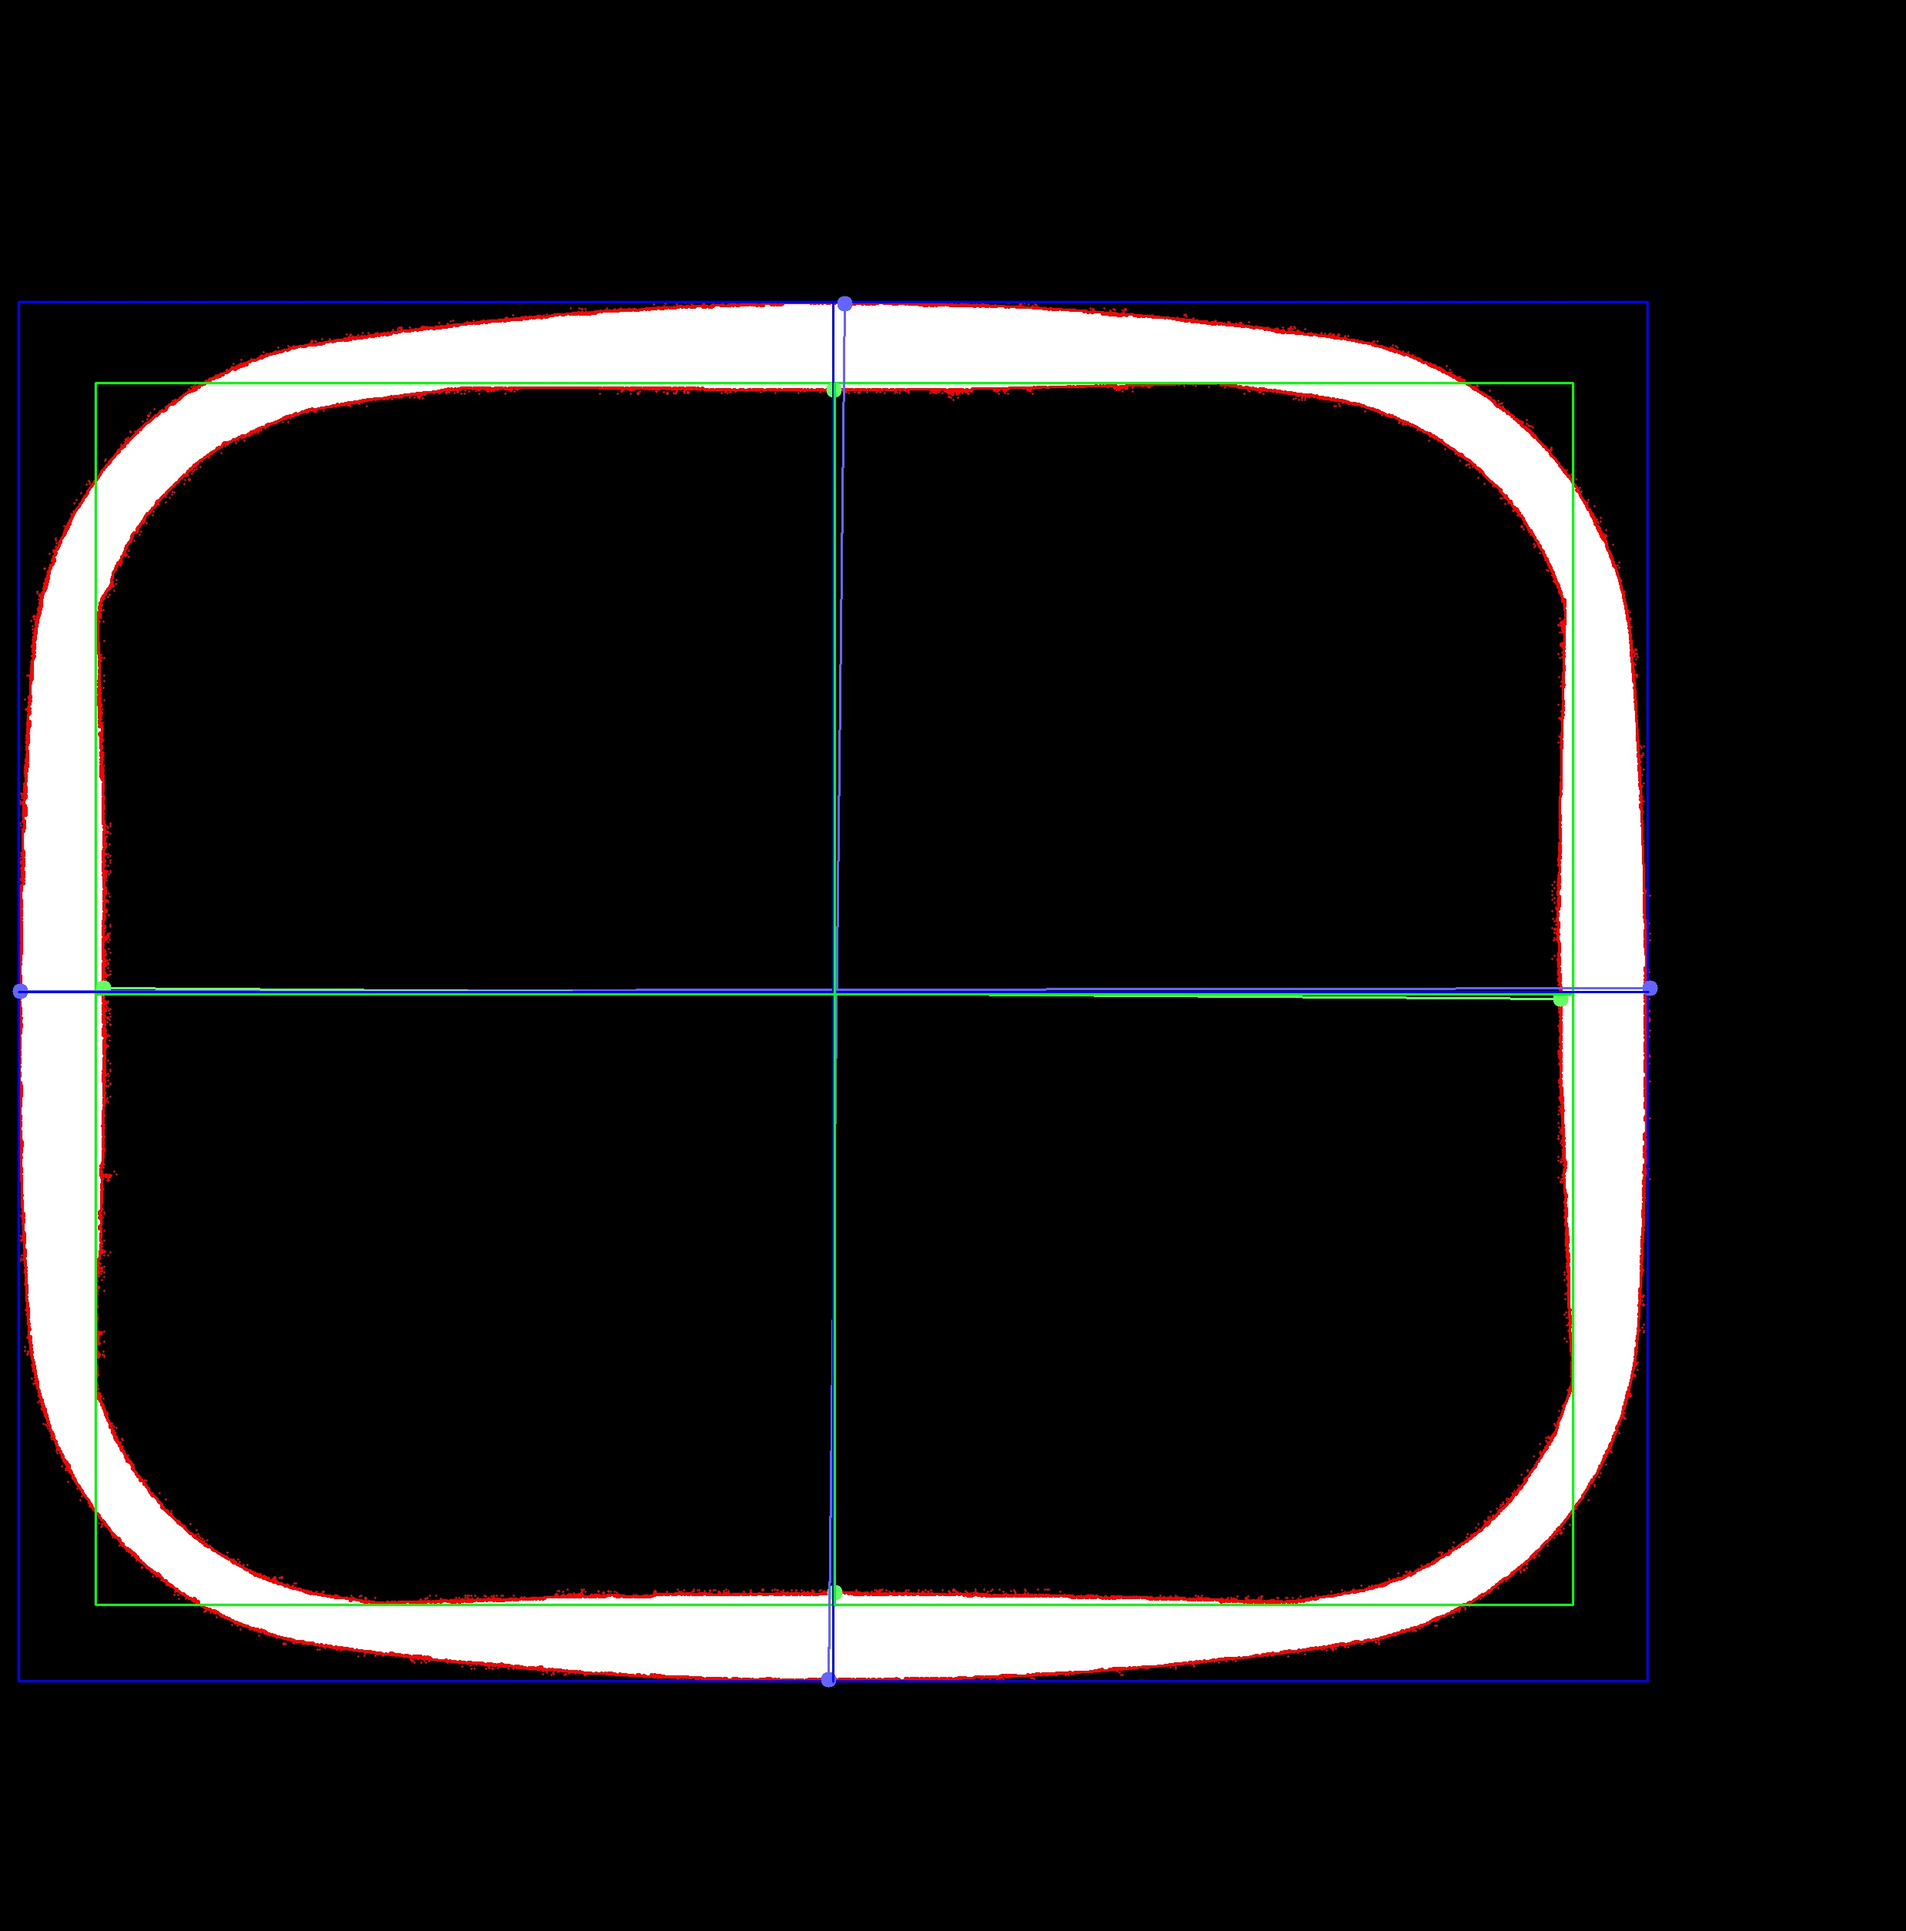
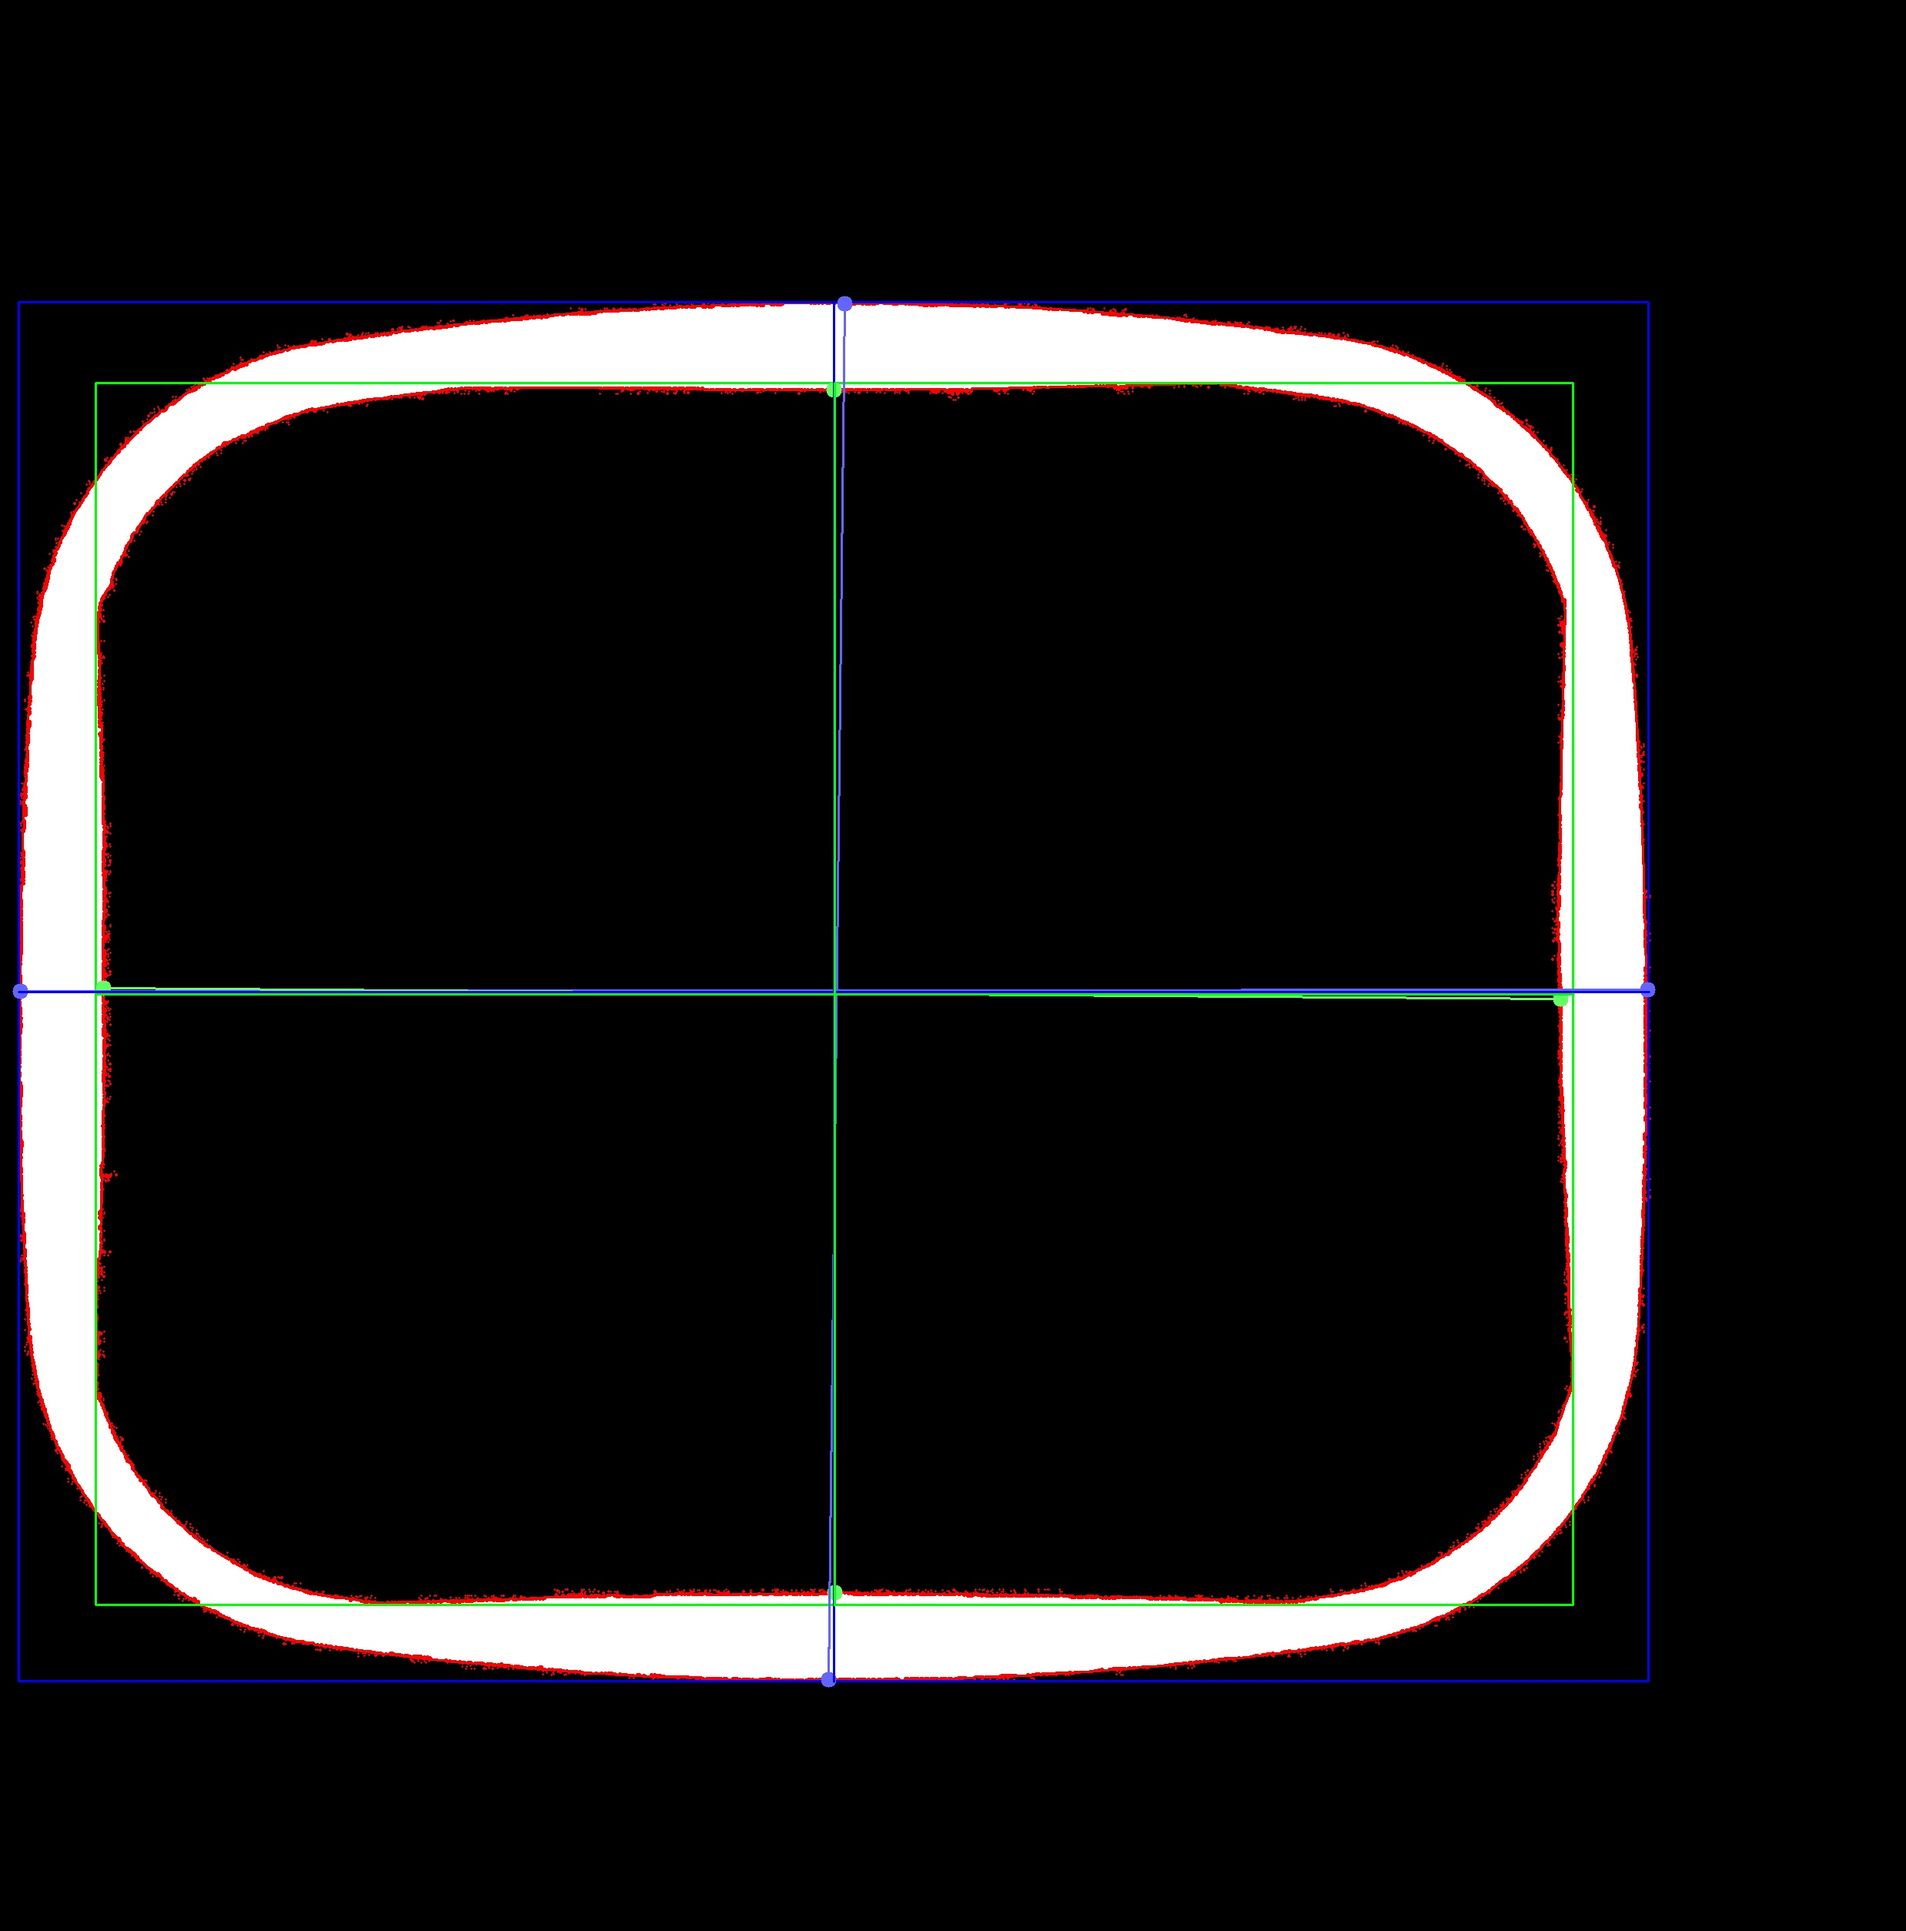
removed duplicate code in process segmented scripts and updated docs/ result images

diff --git a/src/process-segmented-4x4.py b/src/process-segmented-4x4.py
@@ -72,24 +72,16 @@ cv2.circle(image, centriod(inner_W_contour), 10, (100, 255, 100), -1)
 # Draw outer lines
 cv2.line(image, centriod(outer_E_contour), centriod(outer_W_contour), (255, 100, 100), 2)
 cv2.line(image, centriod(outer_N_contour), centriod(outer_S_contour), (255, 100, 100), 2)
-cv2.line(image, centriod(outer_E_contour), centriod(outer_W_contour), (255, 100, 100), 2)
-cv2.line(image, centriod(outer_N_contour), centriod(outer_S_contour), (255, 100, 100), 2)
 
 # Draw inner lines
-cv2.line(image, centriod(inner_E_contour), centriod(inner_W_contour), (100, 255, 100), 2)
-cv2.line(image, centriod(inner_N_contour), centriod(inner_S_contour), (100, 255, 100), 2)
 cv2.line(image, centriod(inner_E_contour), centriod(inner_W_contour), (100, 255, 100), 2)
 cv2.line(image, centriod(inner_N_contour), centriod(inner_S_contour), (100, 255, 100), 2)
 
 # Draw outer lines
 cv2.line(image, outer_bounding_box_E_point, outer_bounding_box_W_point, (255, 0, 0), 2)
 cv2.line(image, outer_bounding_box_N_point, outer_bounding_box_S_point, (255, 0, 0), 2)
-cv2.line(image, outer_bounding_box_E_point, outer_bounding_box_W_point, (255, 0, 0), 2)
-cv2.line(image, outer_bounding_box_N_point, outer_bounding_box_S_point, (255, 0, 0), 2)
 
 # Draw inner lines
-cv2.line(image, inner_bounding_box_E_point, inner_bounding_box_W_point, (0, 255, 0), 2)
-cv2.line(image, inner_bounding_box_N_point, inner_bounding_box_S_point, (0, 255, 0), 2)
 cv2.line(image, inner_bounding_box_E_point, inner_bounding_box_W_point, (0, 255, 0), 2)
 cv2.line(image, inner_bounding_box_N_point, inner_bounding_box_S_point, (0, 255, 0), 2)
 

diff --git a/src/process-segmented-5x7.py b/src/process-segmented-5x7.py
@@ -72,24 +72,16 @@ cv2.circle(image, centriod(inner_W_contour), 10, (100, 255, 100), -1)
 # Draw outer lines
 cv2.line(image, centriod(outer_E_contour), centriod(outer_W_contour), (255, 100, 100), 2)
 cv2.line(image, centriod(outer_N_contour), centriod(outer_S_contour), (255, 100, 100), 2)
-cv2.line(image, centriod(outer_E_contour), centriod(outer_W_contour), (255, 100, 100), 2)
-cv2.line(image, centriod(outer_N_contour), centriod(outer_S_contour), (255, 100, 100), 2)
 
 # Draw inner lines
-cv2.line(image, centriod(inner_E_contour), centriod(inner_W_contour), (100, 255, 100), 2)
-cv2.line(image, centriod(inner_N_contour), centriod(inner_S_contour), (100, 255, 100), 2)
 cv2.line(image, centriod(inner_E_contour), centriod(inner_W_contour), (100, 255, 100), 2)
 cv2.line(image, centriod(inner_N_contour), centriod(inner_S_contour), (100, 255, 100), 2)
 
 # Draw outer lines
 cv2.line(image, outer_bounding_box_E_point, outer_bounding_box_W_point, (255, 0, 0), 2)
 cv2.line(image, outer_bounding_box_N_point, outer_bounding_box_S_point, (255, 0, 0), 2)
-cv2.line(image, outer_bounding_box_E_point, outer_bounding_box_W_point, (255, 0, 0), 2)
-cv2.line(image, outer_bounding_box_N_point, outer_bounding_box_S_point, (255, 0, 0), 2)
 
 # Draw inner lines
-cv2.line(image, inner_bounding_box_E_point, inner_bounding_box_W_point, (0, 255, 0), 2)
-cv2.line(image, inner_bounding_box_N_point, inner_bounding_box_S_point, (0, 255, 0), 2)
 cv2.line(image, inner_bounding_box_E_point, inner_bounding_box_W_point, (0, 255, 0), 2)
 cv2.line(image, inner_bounding_box_N_point, inner_bounding_box_S_point, (0, 255, 0), 2)
 
